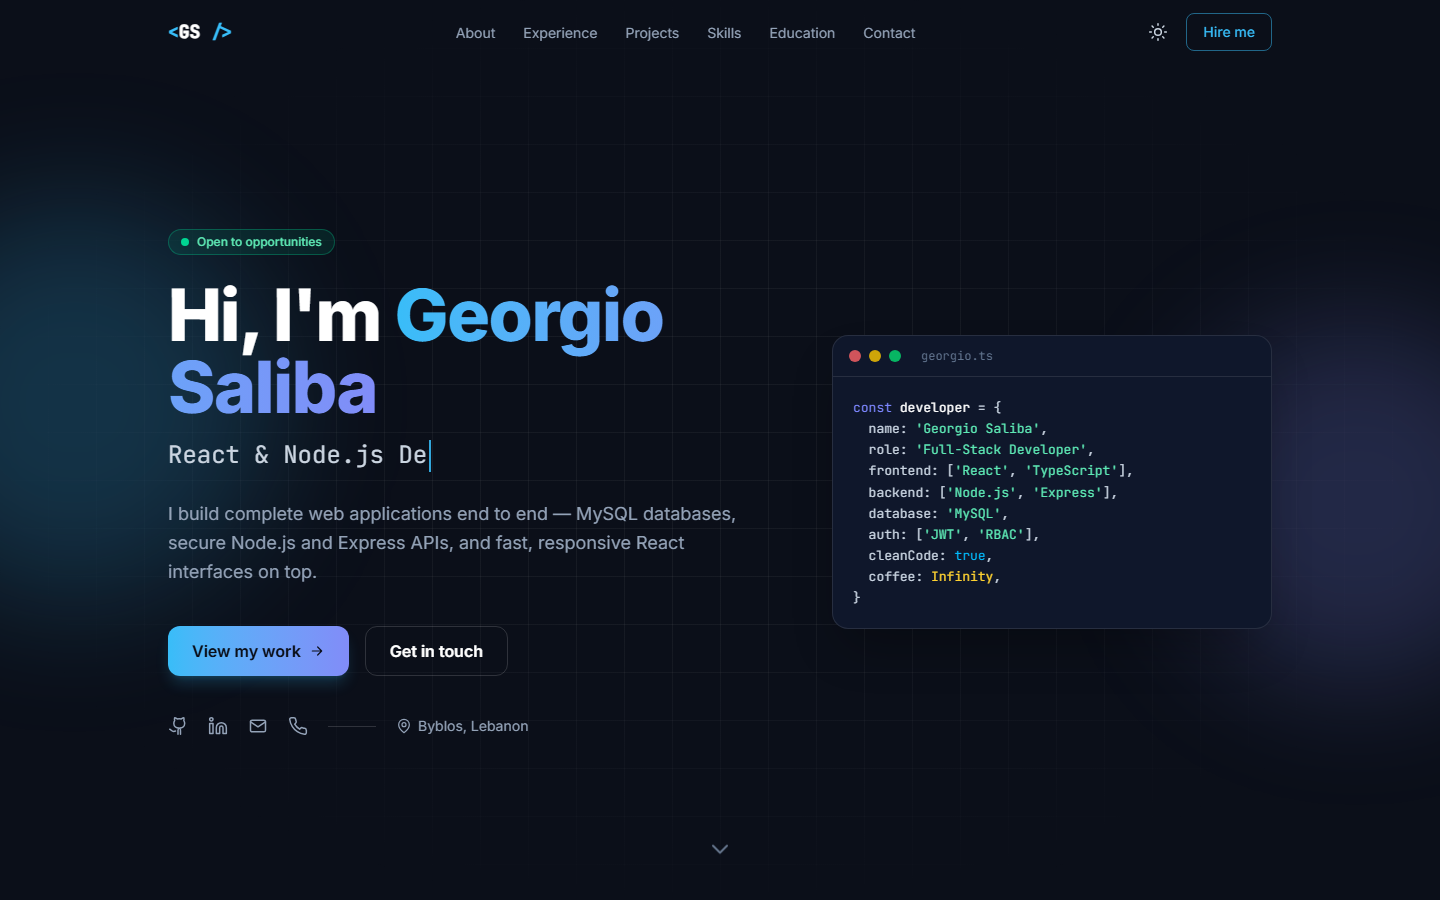
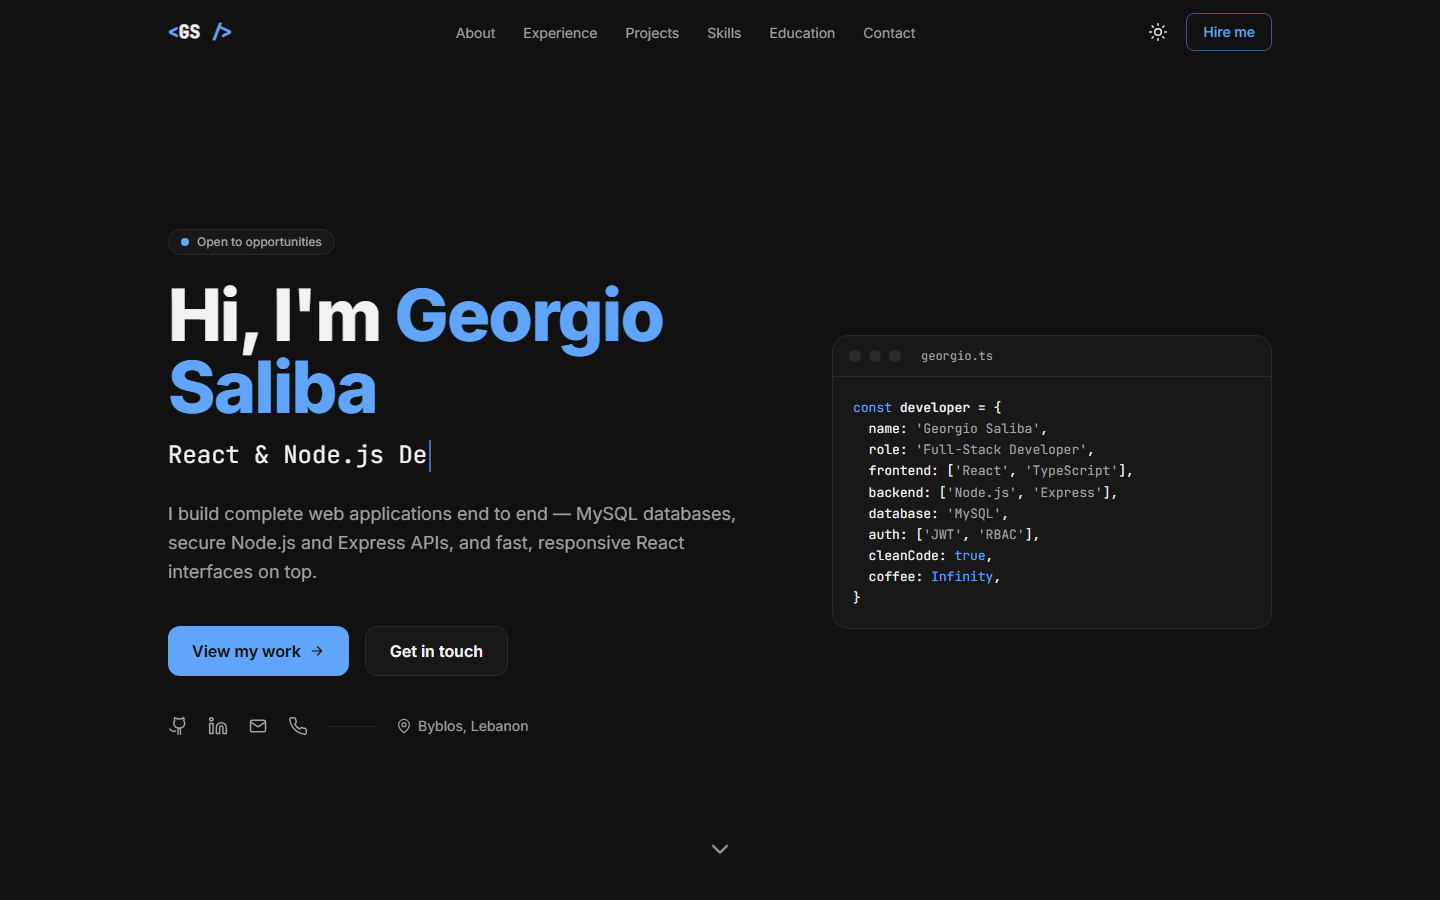
Restyle with a minimal neutral palette
- New light/dark color tokens: background, surface, text, secondary
  text, border and a single blue accent
- Remove gradients, glow shadows, background blobs, grid pattern and
  pulsing dots for a clean, professional look
- Code card and project cards now follow the active theme
- Gray project card headers in light mode so icons stand out
- Update favicon and README screenshots

diff --git a/src/components/Hero.jsx b/src/components/Hero.jsx
@@ -35,23 +35,13 @@ export default function Hero() {
 
   return (
     <section id="home" className="relative flex min-h-screen items-center overflow-hidden pt-16">
-      <div className="bg-grid absolute inset-0" />
-      <div className="animate-blob absolute -left-32 top-1/4 size-96 rounded-full bg-accent/20 blur-3xl" />
-      <div
-        className="animate-blob absolute -right-32 bottom-1/4 size-96 rounded-full bg-accent-2/20 blur-3xl"
-        style={{ animationDelay: '-6s' }}
-      />
-
       <div className="relative mx-auto grid w-full max-w-6xl items-center gap-12 px-4 py-20 sm:px-6 lg:grid-cols-[1.4fr_1fr]">
         <div>
           <div
             data-aos="fade-down"
-            className="inline-flex items-center gap-2 rounded-full border border-emerald-400/30 bg-emerald-400/10 px-3 py-1 text-xs font-medium text-emerald-700 dark:text-emerald-300"
+            className="inline-flex items-center gap-2 rounded-full border border-line bg-surface px-3 py-1 text-xs font-medium text-muted"
           >
-            <span className="relative flex size-2">
-              <span className="absolute inline-flex size-full animate-ping rounded-full bg-emerald-400 opacity-75" />
-              <span className="relative inline-flex size-2 rounded-full bg-emerald-400" />
-            </span>
+            <span className="size-2 rounded-full bg-accent" />
             Open to opportunities
           </div>
 
@@ -60,7 +50,7 @@ export default function Hero() {
             data-aos-delay="100"
             className="mt-6 text-4xl font-extrabold tracking-tight text-fg sm:text-6xl lg:text-7xl"
           >
-            Hi, I'm <span className="text-gradient">{profile.name}</span>
+            Hi, I'm <span className="text-accent">{profile.name}</span>
           </h1>
 
           <p data-aos="fade-up" data-aos-delay="200" className="mt-4 h-9 font-mono text-xl text-body sm:text-2xl">
@@ -76,14 +66,14 @@ export default function Hero() {
           <div data-aos="fade-up" data-aos-delay="400" className="mt-10 flex flex-wrap gap-4">
             <a
               href="#projects"
-              className="group inline-flex items-center gap-2 rounded-xl bg-gradient-to-r from-accent to-accent-2 px-6 py-3 font-semibold text-ink shadow-lg shadow-accent/20 transition hover:shadow-accent/40"
+              className="group inline-flex items-center gap-2 rounded-xl bg-accent px-6 py-3 font-semibold text-on-accent transition hover:opacity-90"
             >
               View my work
               <Icon name="arrow" className="size-4 transition-transform group-hover:translate-x-1" />
             </a>
             <a
               href="#contact"
-              className="inline-flex items-center gap-2 rounded-xl border border-fg/15 px-6 py-3 font-semibold text-fg transition hover:border-fg/30 hover:bg-fg/5"
+              className="inline-flex items-center gap-2 rounded-xl border border-line bg-surface px-6 py-3 font-semibold text-fg transition hover:border-muted/40"
             >
               Get in touch
             </a>
@@ -102,7 +92,7 @@ export default function Hero() {
             <a href={profile.phoneHref} aria-label="Phone" className="transition hover:text-accent">
               <Icon name="phone" className="size-5" />
             </a>
-            <span className="h-px w-12 bg-fg/15" />
+            <span className="h-px w-12 bg-line" />
             <span className="flex items-center gap-1.5 text-sm">
               <Icon name="pin" className="size-4" /> {profile.location}
             </span>
@@ -111,24 +101,24 @@ export default function Hero() {
 
         {/* Code-editor style card */}
         <div data-aos="zoom-in" data-aos-delay="300" className="hidden lg:block">
-          <div className="overflow-hidden rounded-2xl border border-white/10 bg-slate-900 text-slate-300 shadow-2xl shadow-black/30">
-            <div className="flex items-center gap-2 border-b border-white/10 px-4 py-3">
-              <span className="size-3 rounded-full bg-red-400/80" />
-              <span className="size-3 rounded-full bg-yellow-400/80" />
-              <span className="size-3 rounded-full bg-green-400/80" />
-              <span className="ml-3 font-mono text-xs text-slate-500">georgio.ts</span>
+          <div className="overflow-hidden rounded-2xl border border-line bg-surface text-fg">
+            <div className="flex items-center gap-2 border-b border-line px-4 py-3">
+              <span className="size-3 rounded-full bg-line" />
+              <span className="size-3 rounded-full bg-line" />
+              <span className="size-3 rounded-full bg-line" />
+              <span className="ml-3 font-mono text-xs text-muted">georgio.ts</span>
             </div>
             <pre className="overflow-x-auto p-5 font-mono text-[13px] leading-relaxed">
               <code>
-                <span className="text-indigo-400">const</span> <span className="text-white">developer</span> = {'{'}
-                {'\n'}  name: <span className="text-emerald-300">'Georgio Saliba'</span>,
-                {'\n'}  role: <span className="text-emerald-300">'Full-Stack Developer'</span>,
-                {'\n'}  frontend: [<span className="text-emerald-300">'React'</span>, <span className="text-emerald-300">'TypeScript'</span>],
-                {'\n'}  backend: [<span className="text-emerald-300">'Node.js'</span>, <span className="text-emerald-300">'Express'</span>],
-                {'\n'}  database: <span className="text-emerald-300">'MySQL'</span>,
-                {'\n'}  auth: [<span className="text-emerald-300">'JWT'</span>, <span className="text-emerald-300">'RBAC'</span>],
-                {'\n'}  cleanCode: <span className="text-sky-400">true</span>,
-                {'\n'}  coffee: <span className="text-amber-300">Infinity</span>,
+                <span className="text-accent">const</span> <span className="font-medium">developer</span> = {'{'}
+                {'\n'}  name: <span className="text-muted">'Georgio Saliba'</span>,
+                {'\n'}  role: <span className="text-muted">'Full-Stack Developer'</span>,
+                {'\n'}  frontend: [<span className="text-muted">'React'</span>, <span className="text-muted">'TypeScript'</span>],
+                {'\n'}  backend: [<span className="text-muted">'Node.js'</span>, <span className="text-muted">'Express'</span>],
+                {'\n'}  database: <span className="text-muted">'MySQL'</span>,
+                {'\n'}  auth: [<span className="text-muted">'JWT'</span>, <span className="text-muted">'RBAC'</span>],
+                {'\n'}  cleanCode: <span className="text-accent">true</span>,
+                {'\n'}  coffee: <span className="text-accent">Infinity</span>,
                 {'\n'}{'}'}
               </code>
             </pre>

diff --git a/src/index.css b/src/index.css
@@ -6,13 +6,17 @@
 @theme {
   --font-sans: "Inter", ui-sans-serif, system-ui, sans-serif;
   --font-mono: "JetBrains Mono", ui-monospace, monospace;
-  --color-ink: #0b0f19;
-  --color-fg: #ffffff;
-  --color-body: #cbd5e1;
-  --color-muted: #94a3b8;
-  --color-subtle: #64748b;
-  --color-accent: #38bdf8;
-  --color-accent-2: #818cf8;
+  --color-ink: #111111;       /* page background */
+  --color-surface: #181818;   /* cards */
+  --color-fg: #f2f2f2;        /* primary text */
+  --color-muted: #a3a3a3;     /* secondary text */
+  --color-line: #2a2a2a;      /* borders */
+  --color-accent: #60a5fa;
+  --color-on-accent: #111111; /* text on accent fills */
+
+  /* Aliases kept so existing class names stay meaningful */
+  --color-body: var(--color-fg);
+  --color-subtle: var(--color-muted);
 }
 
 :root {
@@ -21,13 +25,13 @@
 
 :root:not(.dark) {
   color-scheme: light;
-  --color-ink: #f8fafc;
-  --color-fg: #0f172a;
-  --color-body: #334155;
-  --color-muted: #475569;
-  --color-subtle: #64748b;
-  --color-accent: #0284c7;
-  --color-accent-2: #6366f1;
+  --color-ink: #f7f7f5;
+  --color-surface: #ffffff;
+  --color-fg: #171717;
+  --color-muted: #666666;
+  --color-line: #e5e5e2;
+  --color-accent: #2563eb;
+  --color-on-accent: #ffffff;
 }
 
 html {
@@ -35,44 +39,18 @@ html {
 }
 
 body {
-  @apply bg-ink text-body font-sans antialiased transition-colors duration-300;
+  @apply bg-ink text-fg font-sans antialiased transition-colors duration-300;
 }
 
 ::selection {
-  @apply bg-accent/30 text-fg;
-}
-
-@utility text-gradient {
-  @apply bg-gradient-to-r from-accent to-accent-2 bg-clip-text text-transparent;
+  @apply bg-accent/20 text-fg;
 }
 
 @utility card {
-  @apply rounded-2xl border border-fg/10 bg-fg/[0.03] backdrop-blur-sm transition-colors duration-300 hover:border-accent/40 hover:bg-fg/[0.05];
-}
-
-@utility bg-grid {
-  background-image:
-    linear-gradient(to right, color-mix(in srgb, var(--color-fg) 5%, transparent) 1px, transparent 1px),
-    linear-gradient(to bottom, color-mix(in srgb, var(--color-fg) 5%, transparent) 1px, transparent 1px);
-  background-size: 48px 48px;
-  mask-image: radial-gradient(ellipse at center, black 30%, transparent 75%);
-}
-
-@keyframes blob {
-  0%, 100% { transform: translate(0, 0) scale(1); }
-  33% { transform: translate(30px, -40px) scale(1.1); }
-  66% { transform: translate(-20px, 20px) scale(0.95); }
+  @apply rounded-2xl border border-line bg-surface transition-colors duration-300 hover:border-muted/40;
 }
 
 @keyframes marquee {
   from { transform: translateX(0); }
   to { transform: translateX(-50%); }
-}
-
-@utility animate-blob {
-  animation: blob 12s ease-in-out infinite;
-}
-
-@media (prefers-reduced-motion: reduce) {
-  .animate-blob { animation: none; }
 }

diff --git a/src/components/Projects.jsx b/src/components/Projects.jsx
@@ -2,12 +2,6 @@ import Icon from './Icons'
 import SectionHeading from './SectionHeading'
 import { projects } from '../data/resume'
 
-const gradients = [
-  'from-sky-500/30 via-indigo-500/20 to-transparent',
-  'from-fuchsia-500/30 via-violet-500/20 to-transparent',
-  'from-emerald-500/30 via-teal-500/20 to-transparent',
-]
-
 export default function Projects() {
   return (
     <section id="projects" className="mx-auto max-w-6xl px-4 py-24 sm:px-6">
@@ -23,15 +17,14 @@ export default function Projects() {
             key={project.name}
             data-aos="fade-up"
             data-aos-delay={i * 120}
-            className="card group flex flex-col overflow-hidden hover:-translate-y-1 hover:shadow-xl hover:shadow-accent/10"
-            style={{ transitionProperty: 'transform, box-shadow, border-color, background-color' }}
+            className="card group flex flex-col overflow-hidden hover:-translate-y-1"
+            style={{ transitionProperty: 'transform, border-color, background-color' }}
           >
-            <div className={`relative flex h-40 items-center justify-center bg-gradient-to-br ${gradients[i % gradients.length]}`}>
-              <div className="bg-grid absolute inset-0 opacity-60" />
-              <div className="relative rounded-2xl border border-fg/15 bg-ink/60 p-5 text-fg backdrop-blur transition-transform duration-300 group-hover:scale-110 group-hover:rotate-3">
+            <div className="relative flex h-40 items-center justify-center border-b border-line bg-line/60 dark:bg-ink">
+              <div className="relative rounded-2xl border border-line bg-surface p-5 text-accent transition-transform duration-300 group-hover:scale-105">
                 <Icon name={project.icon} className="size-10" />
               </div>
-              <span className="absolute right-4 top-4 rounded-full bg-ink/70 px-2.5 py-1 font-mono text-xs text-body">
+              <span className="absolute right-4 top-4 rounded-full border border-line bg-surface px-2.5 py-1 font-mono text-xs text-muted">
                 {project.year}
               </span>
             </div>
@@ -42,7 +35,7 @@ export default function Projects() {
               <p className="mt-3 flex-1 text-muted">{project.description}</p>
               <div className="mt-6 flex flex-wrap gap-2">
                 {project.stack.map((tech) => (
-                  <span key={tech} className="rounded-md border border-fg/10 px-2 py-1 font-mono text-xs text-body">
+                  <span key={tech} className="rounded-md border border-line px-2 py-1 font-mono text-xs text-body">
                     {tech}
                   </span>
                 ))}

diff --git a/src/components/Education.jsx b/src/components/Education.jsx
@@ -15,7 +15,7 @@ export default function Education() {
           <h3 className="mt-5 text-xl font-semibold text-fg">{education.degree}</h3>
           <p className="mt-2 text-muted">{education.school}</p>
           <div className="mt-6 flex flex-wrap gap-4 text-sm">
-            <span className="rounded-full bg-fg/5 px-3 py-1 font-mono text-body">{education.period}</span>
+            <span className="rounded-full border border-line bg-ink px-3 py-1 font-mono text-body">{education.period}</span>
             <span className="flex items-center gap-1 text-subtle">
               <Icon name="pin" className="size-4" /> {education.location}
             </span>
@@ -23,7 +23,7 @@ export default function Education() {
         </div>
 
         <div data-aos="fade-left" className="card p-6 sm:p-8">
-          <span className="inline-flex rounded-xl bg-accent-2/10 p-3 text-accent-2">
+          <span className="inline-flex rounded-xl bg-accent/10 p-3 text-accent">
             <Icon name="globe" className="size-7" />
           </span>
           <h3 className="mt-5 text-xl font-semibold text-fg">Languages</h3>
@@ -34,12 +34,12 @@ export default function Education() {
                   <span className="text-fg">{lang.name}</span>
                   <span className="text-muted">{lang.level}</span>
                 </div>
-                <div className="mt-2 h-2 overflow-hidden rounded-full bg-fg/5">
+                <div className="mt-2 h-1.5 overflow-hidden rounded-full bg-line">
                   <div
                     data-aos="slide-right"
                     data-aos-delay={200 + i * 150}
                     data-aos-duration="1000"
-                    className="h-full rounded-full bg-gradient-to-r from-accent to-accent-2"
+                    className="h-full rounded-full bg-accent"
                     style={{ width: `${lang.value}%` }}
                   />
                 </div>

diff --git a/src/components/Contact.jsx b/src/components/Contact.jsx
@@ -21,7 +21,7 @@ export default function Contact() {
       <div data-aos="fade-up" className="card p-6 sm:p-10">
         <div className="flex flex-col gap-1">
           <p className="text-2xl font-bold text-fg sm:text-3xl">{profile.name}</p>
-          <p className="text-gradient font-mono text-sm font-medium">{profile.role}</p>
+          <p className="font-mono text-sm text-muted">{profile.role}</p>
         </div>
 
         <ul className="mt-8 grid grid-cols-2 gap-3 sm:gap-4">
@@ -33,9 +33,9 @@ export default function Contact() {
                 target={c.external ? '_blank' : undefined}
                 rel={c.external ? 'noreferrer' : undefined}
                 aria-label={`${c.label}: ${c.value}`}
-                className="group flex h-full flex-col items-center gap-3 rounded-xl border border-fg/10 bg-fg/[0.03] p-4 text-center transition hover:-translate-y-0.5 hover:border-accent/50 sm:flex-row sm:gap-4 sm:text-left"
+                className="group flex h-full flex-col items-center gap-3 rounded-xl border border-line bg-ink p-4 text-center transition hover:-translate-y-0.5 hover:border-accent/50 sm:flex-row sm:gap-4 sm:text-left"
               >
-                <span className="rounded-xl bg-accent/10 p-3 text-accent transition group-hover:bg-accent group-hover:text-ink">
+                <span className="rounded-xl bg-accent/10 p-3 text-accent transition group-hover:bg-accent group-hover:text-on-accent">
                   <Icon name={c.icon} className="size-5" />
                 </span>
                 <span className="min-w-0">

diff --git a/src/components/Skills.jsx b/src/components/Skills.jsx
@@ -23,7 +23,7 @@ export default function Skills() {
                 {group.items.map((item) => (
                   <span
                     key={item}
-                    className="rounded-lg border border-fg/10 bg-fg/[0.03] px-3 py-1.5 text-sm text-body transition hover:border-accent/50 hover:text-fg"
+                    className="rounded-lg border border-line bg-ink px-3 py-1.5 text-sm text-body transition hover:border-accent/50"
                   >
                     {item}
                   </span>
@@ -37,11 +37,11 @@ export default function Skills() {
       {/* Infinite tech marquee */}
       <div
         data-aos="fade"
-        className="relative mt-16 overflow-hidden [mask-image:linear-gradient(to_right,transparent,black_15%,black_85%,transparent)]"
+        className="relative mt-16 overflow-hidden"
       >
         <div className="flex w-max animate-[marquee_30s_linear_infinite] gap-4 motion-reduce:animate-none">
           {[...marquee, ...marquee].map((tech, i) => (
-            <span key={i} className="whitespace-nowrap rounded-full border border-fg/10 px-5 py-2 font-mono text-sm text-muted">
+            <span key={i} className="whitespace-nowrap rounded-full border border-line bg-surface px-5 py-2 font-mono text-sm text-muted">
               {tech}
             </span>
           ))}

diff --git a/src/components/Experience.jsx b/src/components/Experience.jsx
@@ -7,12 +7,11 @@ export default function Experience() {
     <section id="experience" className="mx-auto max-w-6xl px-4 py-24 sm:px-6">
       <SectionHeading eyebrow="02. Experience" title="Where I've worked" />
 
-      <ol className="relative space-y-10 border-l border-fg/10 pl-6 sm:pl-10">
+      <ol className="relative space-y-10 border-l border-line pl-6 sm:pl-10">
         {experience.map((job, i) => (
           <li key={job.company} data-aos="fade-up" data-aos-delay={i * 100} className="relative">
             <span className="absolute -left-[33px] top-6 flex size-4 items-center justify-center sm:-left-[49px]">
-              {job.current && <span className="absolute size-4 animate-ping rounded-full bg-accent/50" />}
-              <span className="relative size-3 rounded-full border-2 border-ink bg-accent ring-4 ring-accent/20" />
+              <span className="relative size-3 rounded-full border-2 border-ink bg-accent" />
             </span>
 
             <article className="card p-6 sm:p-8">

diff --git a/src/components/About.jsx b/src/components/About.jsx
@@ -24,7 +24,7 @@ export default function About() {
         <div className="grid grid-cols-3 gap-4 self-start lg:grid-cols-1">
           {stats.map((s, i) => (
             <div key={s.label} data-aos="fade-left" data-aos-delay={i * 100} className="card p-5 text-center lg:text-left">
-              <p className="text-gradient text-3xl font-extrabold">{s.value}</p>
+              <p className="text-3xl font-extrabold text-fg">{s.value}</p>
               <p className="mt-1 text-sm text-muted">{s.label}</p>
             </div>
           ))}

diff --git a/src/components/Navbar.jsx b/src/components/Navbar.jsx
@@ -43,7 +43,7 @@ export default function Navbar() {
   return (
     <header
       className={`fixed inset-x-0 top-0 z-50 transition-all duration-300 ${
-        scrolled || open ? 'border-b border-fg/10 bg-ink/80 backdrop-blur-lg' : 'bg-transparent'
+        scrolled || open ? 'border-b border-line bg-ink' : 'bg-transparent'
       }`}
     >
       <nav className="mx-auto flex h-16 max-w-6xl items-center justify-between px-4 sm:px-6">

diff --git a/src/components/Footer.jsx b/src/components/Footer.jsx
@@ -5,7 +5,7 @@ const year = new Date().getFullYear()
 
 export default function Footer() {
   return (
-    <footer className="border-t border-fg/10">
+    <footer className="border-t border-line">
       <div className="mx-auto flex max-w-6xl flex-col items-center justify-between gap-4 px-4 py-8 text-sm text-subtle sm:flex-row sm:px-6">
         <p>
           © {year} {profile.name}. Built with React, Tailwind CSS & AOS.
